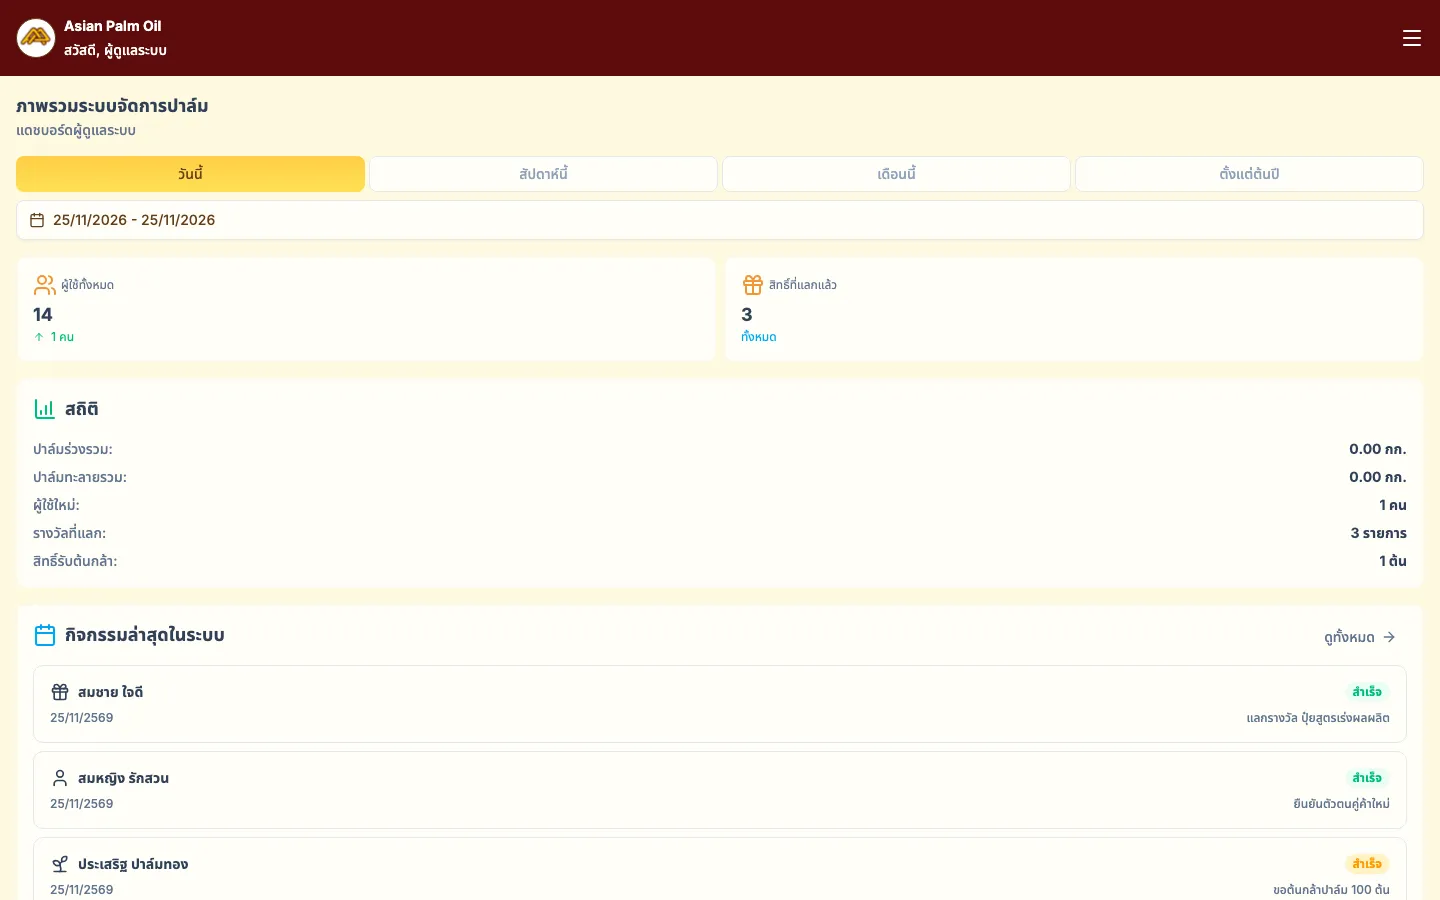
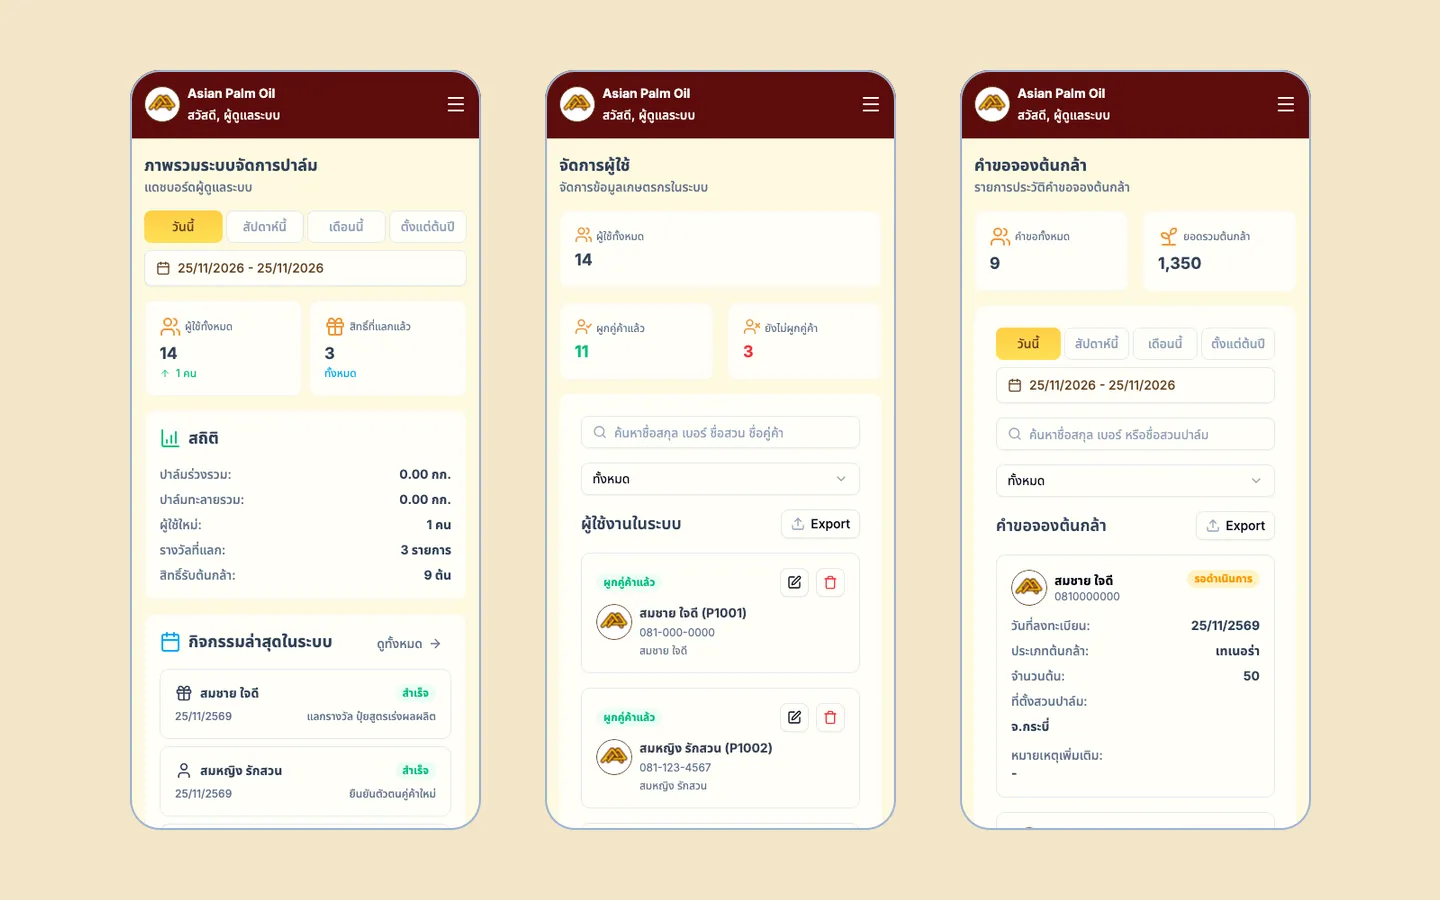
feat(portfolio): move to /portfolios/ and add image galleries (#45)
* feat(portfolio): serve the page at /portfolios/

* feat(portfolio): add image galleries for image-only projects and show APO CRM on phones

diff --git a/src/scripts/work.ts b/src/scripts/work.ts
@@ -45,15 +45,61 @@ function setupFilter(signal: AbortSignal) {
 function setupDetail(signal: AbortSignal) {
   const dialog = document.querySelector<HTMLDialogElement>("#work-detail");
   const preview = dialog?.querySelector<HTMLElement>(".project-preview");
-  const shot = dialog?.querySelector<HTMLElement>(".work-detail-shot");
-  const image = document.querySelector<HTMLImageElement>("#work-detail-image");
+  const gallery = dialog?.querySelector<HTMLElement>(".work-gallery");
+  const stage = document.getElementById("work-gallery-stage");
+  const counter = document.getElementById("work-gallery-count");
+  const thumbs = dialog?.querySelector<HTMLElement>(".work-gallery-thumbs");
   const cover = dialog?.querySelector<HTMLImageElement>(".work-cover-shot");
   const cards = [...document.querySelectorAll<HTMLElement>(".work-card")];
   const portfolio = setupPortfolio(signal, ".work-card[data-project-url]");
-  if (!dialog || !preview || !shot || !image) return () => portfolio.dispose();
+  if (!dialog || !preview || !gallery || !stage || !thumbs)
+    return () => portfolio.dispose();
   const field = (name: string) =>
     dialog.querySelector<HTMLElement>(`[data-detail="${name}"]`)!;
   let opener: HTMLElement | null = null;
+  let images: HTMLImageElement[] = [];
+  let current = 0;
+
+  function show(index: number) {
+    current = (index + images.length) % images.length;
+    const big = images[current].cloneNode() as HTMLImageElement;
+    big.loading = "eager";
+    stage!.replaceChildren(big);
+    stage!.toggleAttribute("data-portrait", big.hasAttribute("data-portrait"));
+    if (counter)
+      counter.textContent = `${t("Image")} ${current + 1} ${t("of")} ${images.length}`;
+    thumbs!
+      .querySelectorAll("button")
+      .forEach((button, i) =>
+        button.setAttribute("aria-pressed", String(i === current)),
+      );
+  }
+
+  function loadGallery(slug: string) {
+    const template = document.querySelector<HTMLTemplateElement>(
+      `template[data-gallery-for="${slug}"]`,
+    );
+    images = template
+      ? [...template.content.querySelectorAll("img")].map(
+          (img) => document.importNode(img) as HTMLImageElement,
+        )
+      : [];
+    thumbs!.replaceChildren(
+      ...images.map((img, i) => {
+        const button = document.createElement("button");
+        button.type = "button";
+        button.setAttribute("aria-label", img.alt);
+        const small = img.cloneNode() as HTMLImageElement;
+        small.alt = "";
+        small.sizes = "96px";
+        button.append(small);
+        button.addEventListener("click", () => show(i), { signal });
+        return button;
+      }),
+    );
+    gallery!.hidden = images.length === 0;
+    if (images.length) show(0);
+  }
 
   const copyImage = (target: HTMLImageElement, source: HTMLImageElement) => {
     target.srcset = source.srcset;
@@ -77,11 +123,9 @@ function setupDetail(signal: AbortSignal) {
       ),
     );
     preview!.hidden = imageOnly;
-    shot!.hidden = !imageOnly;
-    if (imageOnly) {
-      copyImage(image!, cardImage);
-      image!.alt = `${card.dataset.projectName} — ${t("Website preview")}`;
-    } else if (cover) copyImage(cover, cardImage);
+    gallery!.hidden = true;
+    if (imageOnly) loadGallery(card.dataset.slug ?? "");
+    else if (cover) copyImage(cover, cardImage);
     opener = card;
     history.replaceState(null, "", `#${card.dataset.slug}`);
     dialog!.showModal();
@@ -96,6 +140,15 @@ function setupDetail(signal: AbortSignal) {
   dialog
     .querySelector(".work-detail-close")
     ?.addEventListener("click", () => dialog.close(), { signal });
+  dialog.addEventListener(
+    "keydown",
+    (event) => {
+      if (gallery!.hidden || images.length < 2) return;
+      if (event.key === "ArrowRight") show(current + 1);
+      else if (event.key === "ArrowLeft") show(current - 1);
+    },
+    { signal },
+  );
   dialog.addEventListener(
     "click",
     (event) => {

diff --git a/src/styles/work.css b/src/styles/work.css
@@ -1,4 +1,4 @@
-/* Portfolio page (/portfolio/). Builds on landing.css + landing-theme.css. */
+/* Portfolio page (/portfolios/). Builds on landing.css + landing-theme.css. */
 .work-hero {
   padding-top: 168px;
   padding-bottom: 0;
@@ -241,15 +241,68 @@
   opacity: 0.28;
   z-index: 0 !important;
 }
-.work-detail-shot {
+.work-gallery {
   margin: 0;
+}
+.work-gallery-stage {
+  height: min(52dvh, 520px);
   border: 1px solid var(--line);
   border-radius: 5px;
   overflow: hidden;
+  background: #111215;
+  display: flex;
+  justify-content: center;
 }
-.work-detail-shot img {
+.work-gallery-stage img {
   width: 100%;
-  height: auto;
+  height: 100%;
+  object-fit: contain;
+  object-position: top;
+}
+.work-gallery-stage[data-portrait] {
+  padding: 16px 0;
+  background: radial-gradient(ellipse at 50% 40%, #2a2c33, #111215 70%);
+}
+.work-gallery-stage[data-portrait] img {
+  width: auto;
+  border-radius: 18px;
+}
+.work-gallery figcaption {
+  margin: 12px 0 8px;
+}
+.work-gallery-thumbs {
+  display: flex;
+  gap: 10px;
+  overflow-x: auto;
+  padding-bottom: 4px;
+  scrollbar-width: thin;
+}
+.work-gallery-thumbs button {
+  flex: 0 0 auto;
+  width: 96px;
+  aspect-ratio: 16 / 10;
+  padding: 0;
+  border: 1px solid var(--line);
+  border-radius: 4px;
+  overflow: hidden;
+  background: #111215;
+  opacity: 0.55;
+  transition:
+    opacity 0.2s,
+    border-color 0.2s;
+}
+.work-gallery-thumbs button:hover {
+  opacity: 0.85;
+}
+.work-gallery-thumbs button[aria-pressed="true"] {
+  opacity: 1;
+  border-color: var(--signal);
+}
+.work-gallery-thumbs img {
+  width: 100%;
+  height: 100%;
+  object-fit: cover;
+  object-position: top;
 }
 
 @media (max-width: 1024px) {

diff --git a/src/data/landing-ui.ts b/src/data/landing-ui.ts
@@ -169,6 +169,9 @@ const thai: Record<string, string> = {
   "Let’s build something meaningful together.":
     "มาสร้างสิ่งที่มีความหมายไปด้วยกัน",
   "Contact Us": "ติดต่อเรา",
+  "Choose an image": "เลือกรูป",
+  Image: "รูปที่",
+  of: "จาก",
 };
 export const translate = (locale: Locale, text: string) =>
   locale === "th" ? (thai[text] ?? text) : text;

diff --git a/src/data/landing.ts b/src/data/landing.ts
@@ -196,7 +196,7 @@ export type Project = {
   featured: boolean;
   /** Shown as a screenshot only: no live preview and no link. */
   imageOnly?: boolean;
-  /** Left off /portfolio/ (shown on the home list only). */
+  /** Left off /portfolios/ (shown on the home list only). */
   hideOnWorkPage?: boolean;
   description: string;
   tags: string[];
